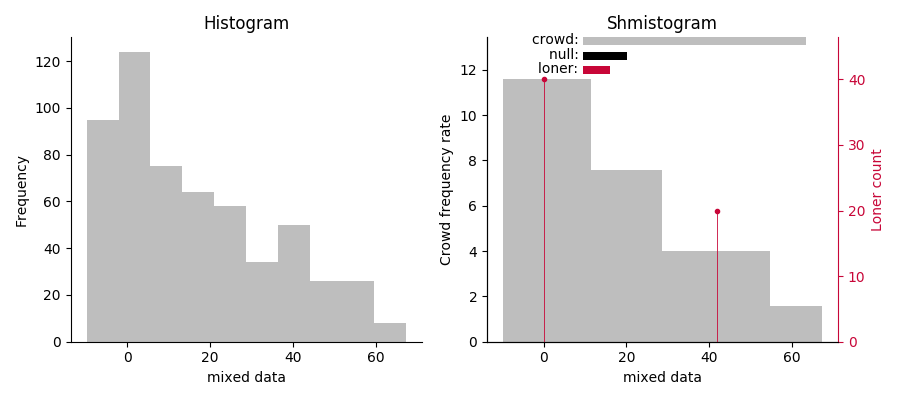
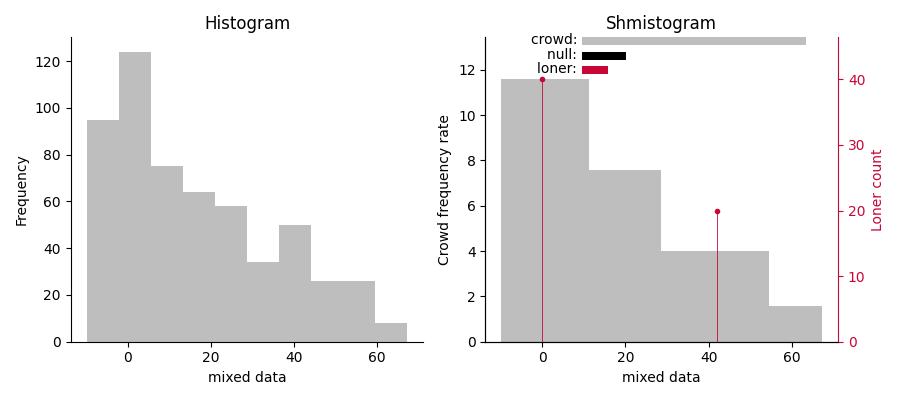
simplify init structure

diff --git a/shmistogram/shmistogram.py b/shmistogram/shmistogram.py
@@ -3,7 +3,8 @@
 import numpy as np
 from matplotlib import pyplot as plt
 
-from shmistogram import binners, plot
+from shmistogram.binners.det import DensityEstimationTree
+from shmistogram.plot.shmistogrammer import ShmistoGrammer
 from shmistogram.tabulation import SeriesTable
 from shmistogram.utils import ClassUtils
 
@@ -48,7 +49,7 @@ class Shmistogram(ClassUtils):
         if binner is not None:
             self.binner = binner
         else:
-            self.binner = binners.DensityEstimationTree()
+            self.binner = DensityEstimationTree()
 
     def _set_loner_min_count(self, loner_min_count):
         if loner_min_count is None:
@@ -80,7 +81,7 @@ class Shmistogram(ClassUtils):
 
     def plot(self, ax=None, name="values", outfile=None, show=False):
         """Plot the bins, loners, and nulls."""
-        plotter = plot.ShmistoGrammer(
+        plotter = ShmistoGrammer(
             bins=self.bins, loners=self.loners.df, loner_crowd_shares=self.loner_crowd_shares, name=name
         )
         plotter.plot(ax=ax, show=show)

diff --git a/doc/comparison.py b/doc/comparison.py
@@ -3,6 +3,8 @@
 Run as python doc/comparison.py.
 """
 
+from pathlib import Path
+
 import matplotlib
 
 matplotlib.use("Agg")
@@ -10,6 +12,8 @@ import numpy as np
 from matplotlib import pyplot as plt
 
 import shmistogram as sh
+
+OUTPUT_FILE = Path(__file__).parent / "comparison.png"
 
 # Simulate a mixture of a uniform distribution mixed with a few point masses
 np.random.seed(0)
@@ -22,11 +26,11 @@ fig, axes = plt.subplots(1, 2)
 fig.set_size_inches(9, 4)
 
 # Build a standard histogram with matplotlib.pyplot.hist defaults
-sh.plot.standard_histogram(data[~np.isnan(data)], ax=axes[0], name="mixed data")
+sh.standard_histogram(data[~np.isnan(data)], ax=axes[0], name="mixed data")
 
 # Build the shmistogram using a density tree (default)
 shm = sh.Shmistogram(data)
 shm.plot(ax=axes[1], name="mixed data")
 
 fig.tight_layout()
-fig.savefig("comparison.png")
+fig.savefig(OUTPUT_FILE)

diff --git a/tests/test_binning.py b/tests/test_binning.py
@@ -4,6 +4,10 @@ matplotlib.use("Agg")
 import pandas as pd
 
 import shmistogram as shm
+from shmistogram.binners.det import DensityEstimationTree
+
+# from shmistogram.simulations import univariate
+from shmistogram.simulations.univariate import cauchy_mixture
 
 
 def test_version():
@@ -17,9 +21,9 @@ def test_det_n_bin():
     in each bin
     """
     N = 10
-    data = shm.simulations.cauchy_mixture(n=N, truncate=False, seed=0)
+    data = cauchy_mixture(n=N, truncate=False, seed=0)
     assert data.shape[0] == N
-    binner = shm.binners.DensityEstimationTree(params={"n_bins": N, "min_data_in_leaf": 1})
+    binner = DensityEstimationTree(params={"n_bins": N, "min_data_in_leaf": 1})
     det = shm.Shmistogram(data, binner=binner)
     assert isinstance(det.bins, pd.DataFrame), "Bins must be a DataFrame"
     assert det.bins.shape[0] == N

diff --git a/shmistogram/__init__.py b/shmistogram/__init__.py
@@ -1,8 +1,7 @@
 from importlib.metadata import version
 
-from shmistogram import binners as binners
-from shmistogram import plot as plot
-from shmistogram import simulations as simulations
+from shmistogram.plot.shmistogrammer import ShmistoGrammer as ShmistoGrammer
+from shmistogram.plot.shmistogrammer import standard_histogram as standard_histogram
 from shmistogram.shmistogram import Shmistogram as Shmistogram
 
 __version__ = version("shmistogram")

diff --git a/shmistogram/plot/shmistogrammer.py b/shmistogram/plot/shmistogrammer.py
@@ -146,6 +146,7 @@ class ShmistoGrammer:
             marker="o",
             color=self.colors["loner"],
             markersize=3,
+            linestyle="None",  # Add this line to remove the connecting line
         )
 
     def plot(self, ax=None, show=False, title="Shmistogram"):

diff --git a/README.md b/README.md
@@ -3,10 +3,10 @@
 The shmistogram is a better histogram. Key differences include
 
 - emphasizing singular modalities (i.e. point masses) with a separate multinomial distribution
-- estimating density with better accuracy and fewer bins than a histogram 
+- estimating density with better accuracy and fewer bins than a histogram
 by hierarchically grouping points into variable-width bins
 
-Suppose we simulate draws from a triangular distribution (the 'crowd'), 
+Suppose we simulate draws from a triangular distribution (the 'crowd'),
 supplemented with a couple of mode points ('loners'), and some null values:
 
 ```python
@@ -35,7 +35,7 @@ fig.tight_layout()
 
 ![](doc/comparison.png?raw=true "title")
 
-The histogram obscures the point masses somewhat and says nothing about missing values. 
+The histogram obscures the point masses somewhat and says nothing about missing values.
 By contrast, the shmistogram uses red line segments to emphasize the point masses, and
 the legend bar highlights the relative portions of the data in the crowd versus
 the point masses versus the null values.
@@ -53,14 +53,14 @@ For the development version, `pip install git+https://github.com/zkurtz/shmistog
 
 ### Default behavior
 
-Given a 1-D array of numeric (or `np.nan`) values `data`, the shmistogram 
-`shmistogram.Shmistogram(data)` 
+Given a 1-D array of numeric (or `np.nan`) values `data`, the shmistogram
+`shmistogram.Shmistogram(data)`
 - counts every unique value
 - splits the data into as many as 3 subsets:
     - `np.nan`
     - "Loners" are points with a count above the threshold set by the
     argument `loner_min_count`. Shmistogram sets this dynamically by default
-    as a somewhat log-linear function of `len(data)`. With 100 points, 
+    as a somewhat log-linear function of `len(data)`. With 100 points,
     the threshold is 8; with 100,000 it is 18.
     - The "crowd" is all remaining points.
 - bins the "crowd" using a density estimation tree.
@@ -72,58 +72,58 @@ of the distribution on a single figure.
 
 #### Use case 1: Exploratory data analysis
 
-A shmistogram can be more informative than a histogram by separating 
+A shmistogram can be more informative than a histogram by separating
 continous and discrete variation:
 - inconsistent rounding any continuous variable can induce a mixture of point masses and relatively continuous observations
-- "age of earning first driver's license" plausibly has structural modes at the 
+- "age of earning first driver's license" plausibly has structural modes at the
 legal minimum (which may vary by state) and otherwise vary continuously
 
 #### Use case 2: Scalable, generative density estimation
 
-The shmistogram scales approximately as O(n log(n)) with default settings 
-(see [speed_testing.ipynb](demo/speed_testing.ipynb)). 
-The resulting density model is easy to sample from, as a mixture of 
-a piecewise uniform 
+The shmistogram scales approximately as O(n log(n)) with default settings
+(see [speed_testing.ipynb](demo/speed_testing.ipynb)).
+The resulting density model is easy to sample from, as a mixture of
+a piecewise uniform
 distribution and a multinomial distribution. Such a simple
-estimator works well as one of the required inputs of the CADE density 
-estimation algorithm for high dimensional 
+estimator works well as one of the required inputs of the CADE density
+estimation algorithm for high dimensional
 and mixed continuous/categorical data (see [pydens](https://github.com/zkurtz/pydens)).
 
-The shmistogram's adaptive bin width leads to a higher-fidelity representation of 
+The shmistogram's adaptive bin width leads to a higher-fidelity representation of
 complicated distributions without substantially increasing the number of bins.
 This is not a new idea, and shmistogram wraps multiple binning
-methods that the user can choose from. See 
+methods that the user can choose from. See
 [binning_methods.ipynb](demo/binning_methods.ipynb) for details.
 
 ## Binning
 
-The default binning algorithm uses a [binary density estimation tree](shmistogram/det/__init__.py) 
-to iteratively split the data into smaller bins. The split location (within a bin/leaf) 
+The default binning algorithm uses a [binary density estimation tree](shmistogram/det/__init__.py)
+to iteratively split the data into smaller bins. The split location (within a bin/leaf)
 maximizes a penalized improvement in the deviance (i.e. in-sample negative log likelihood).
 The penalty reflects
 - a hard `min_data_in_leaf` constraint. This minimum currently defaults to 3
 - a soft penalty on bins with few observations
 
-We choose the bin to split on as the bin for which splitting produces the greatest 
-penalized improvement. Splits proceed as long as the deviance improvement exceeds 
-the number of leaves. This approach is inspired by the Akaike information criterion 
-(AIC), although this may be an abuse of the criterion in the sense that we're using 
-it as part of a greedy iterative procedure instead of using it to compare fully-formed models. 
+We choose the bin to split on as the bin for which splitting produces the greatest
+penalized improvement. Splits proceed as long as the deviance improvement exceeds
+the number of leaves. This approach is inspired by the Akaike information criterion
+(AIC), although this may be an abuse of the criterion in the sense that we're using
+it as part of a greedy iterative procedure instead of using it to compare fully-formed models.
 
-The variable-width binning algorithms of 
-[bayesian block representations](https://arxiv.org/pdf/1207.5578.pdf) 
+The variable-width binning algorithms of
+[bayesian block representations](https://arxiv.org/pdf/1207.5578.pdf)
 provide an alternative to our default binning algorithm. See [demo](demo/bayesian_blocks.ipynb) for
 an example. See also
-[Python Perambulations](https://jakevdp.github.io/blog/2012/09/12/dynamic-programming-in-python/) 
+[Python Perambulations](https://jakevdp.github.io/blog/2012/09/12/dynamic-programming-in-python/)
 for a light conceptual introduction to Bayesian blocks.
 
 ## Wishlist
 
-**Clarify the objective:** There is a tension between optimizing a binner for 
-(a) visualization purposes, such as avoiding tall narrow bins to minimize 
-white space, or adjusting the average bin width to tell a particular story 
-and (b) minimizing a formal measure of estimation accuracy such as the 
-expectation of deviance 
+**Clarify the objective:** There is a tension between optimizing a binner for
+(a) visualization purposes, such as avoiding tall narrow bins to minimize
+white space, or adjusting the average bin width to tell a particular story
+and (b) minimizing a formal measure of estimation accuracy such as the
+expectation of deviance
 (taken over future observations from the true distribution). We should
 offer guidance on which binning method tends to be most effective
 for each of these goals.
@@ -133,12 +133,12 @@ motivation for such a simple model, but the current implementation is
 far from optimal.
 
 **Compare/contrast/harmonize** our binning methods with the literature:
-- [density estimation trees](https://mlpack.org/papers/det.pdf) 
+- [density estimation trees](https://mlpack.org/papers/det.pdf)
 such as [this](https://gitlab.cern.ch/landerli/density-estimation-trees)
-- [distribution element trees](https://arxiv.org/pdf/1610.00345.pdf) such as 
+- [distribution element trees](https://arxiv.org/pdf/1610.00345.pdf) such as
 [detpack](https://github.com/cran/detpack/blob/master/R/det1.R). See
 [detpack_example.R](demo/detpack_example.R) for a simple variable-width binner.
-- [Efficient Density Estimation via Piecewise Polynomial 
+- [Efficient Density Estimation via Piecewise Polynomial
 Approximation](https://arxiv.org/pdf/1305.3207.pdf).
 
 
@@ -149,3 +149,14 @@ This repo is young, has practically no unit tests, and should be expected to cha
 ## License
 
 This project is licensed under the terms of the MIT license. See LICENSE for additional details.
+
+## Development
+
+```
+git clone git@github.com:zkurtz/shmistogram.git
+cd shmistogram
+pip install uv
+uv sync --group extras
+source .venv/bin/activate
+pre-commit install
+```
